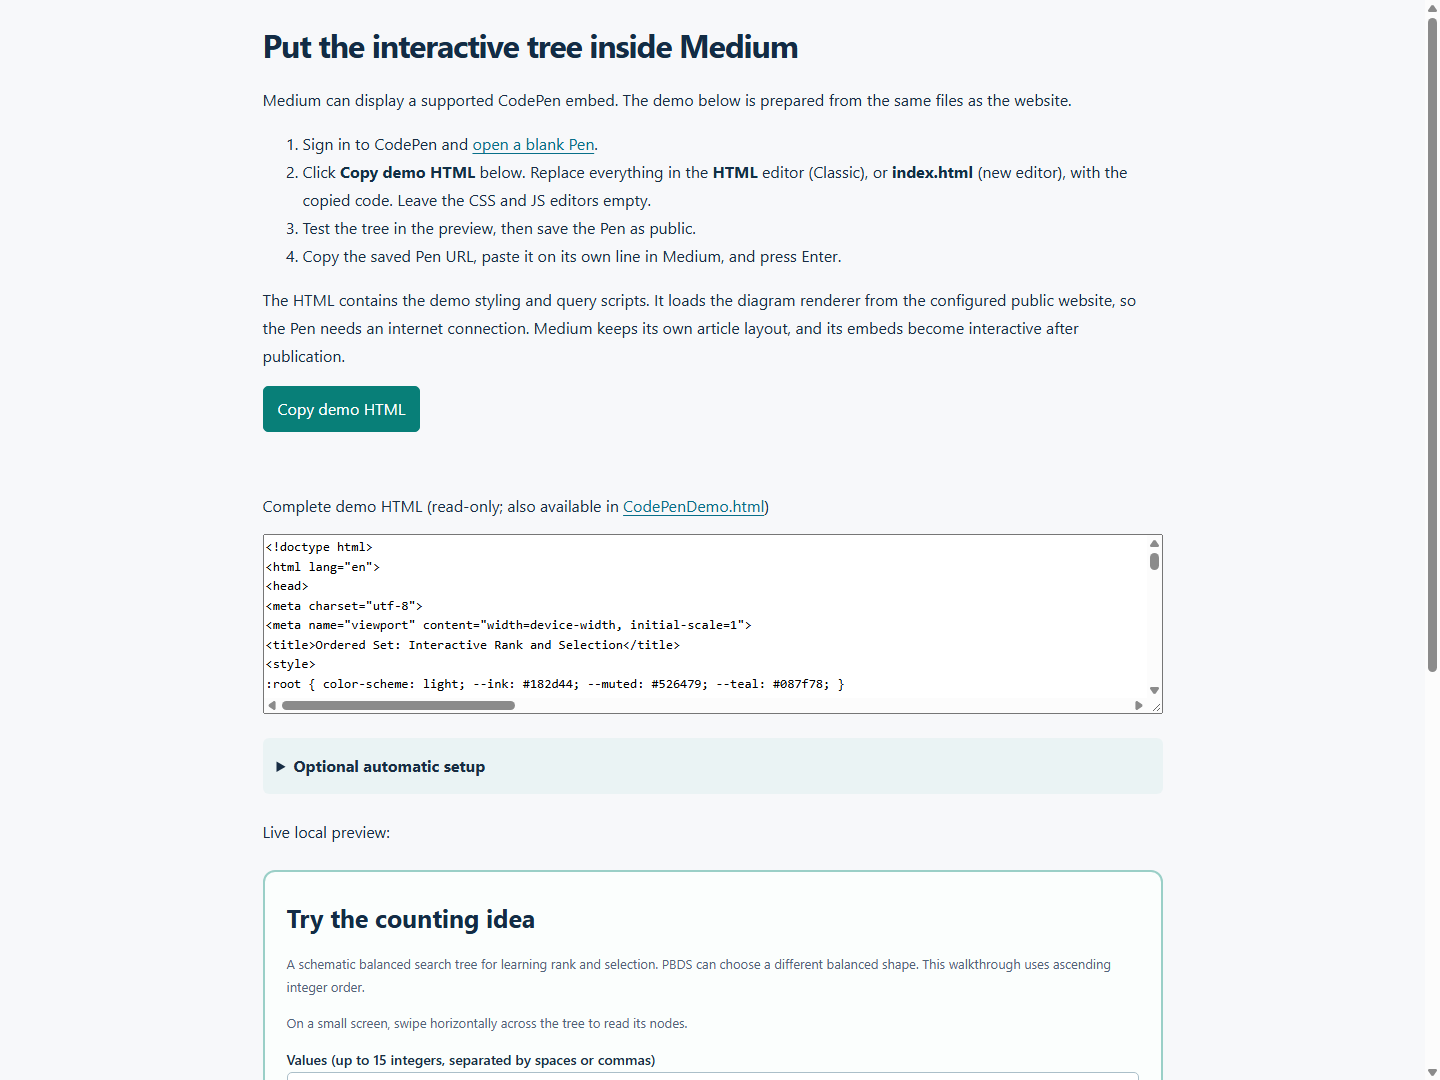
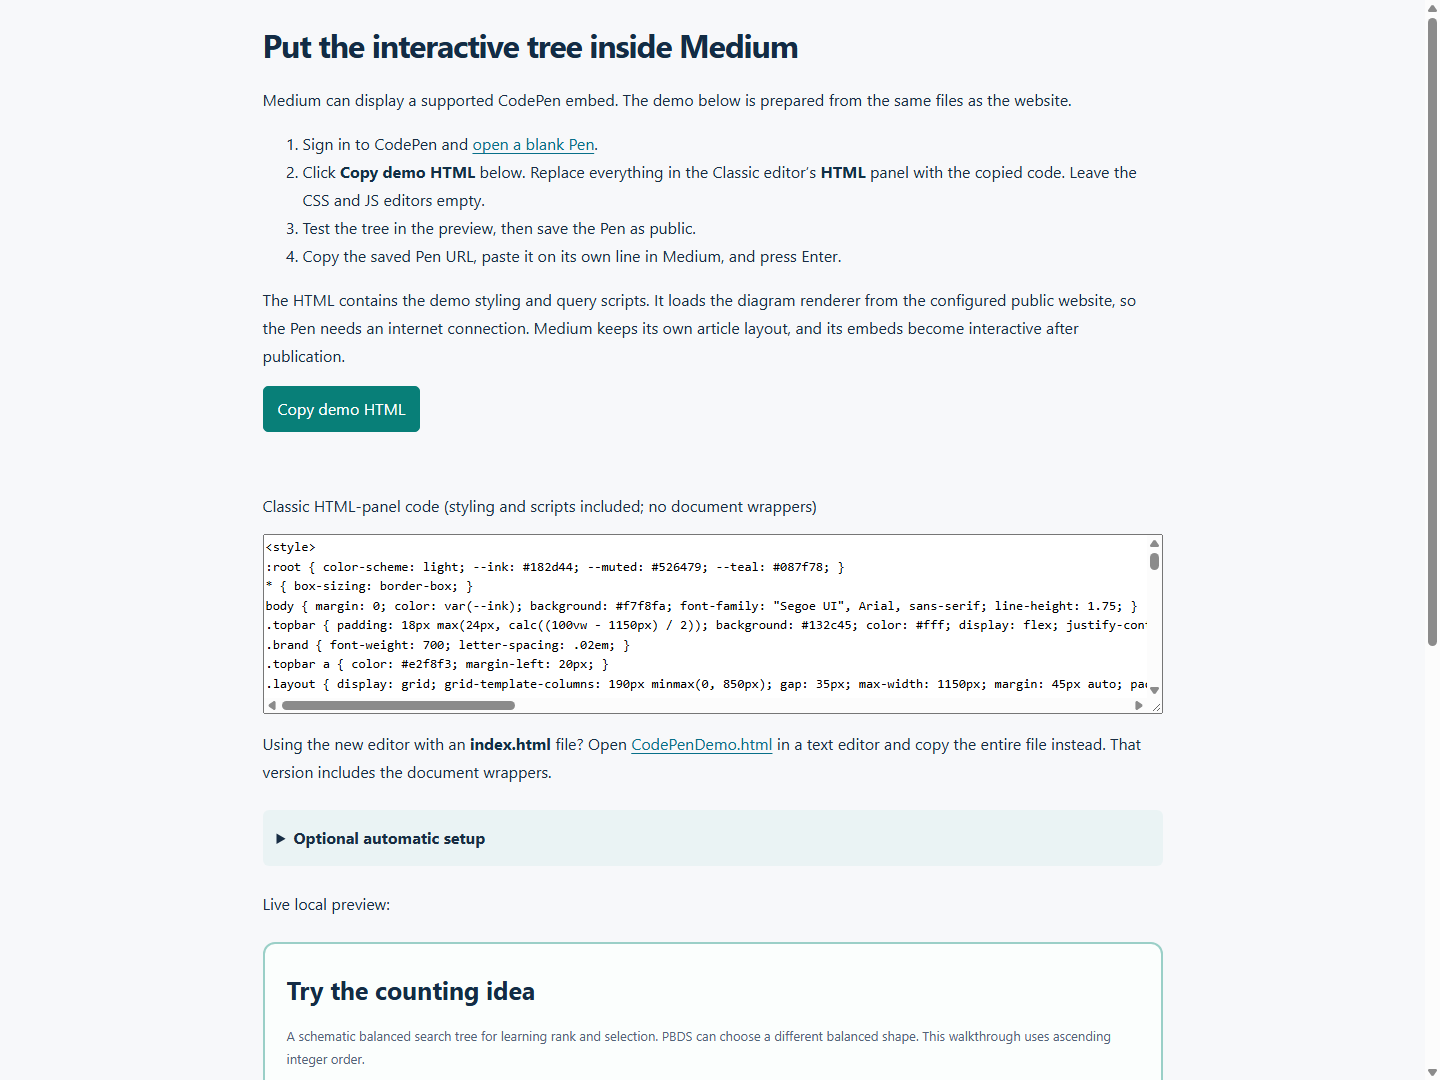
Enhanced some files specifically for Medium

diff --git a/embeds/CodePen.html b/embeds/CodePen.html
@@ -7,18 +7,12 @@
 </head><body><main><div class="embed-intro">
 <h1>Put the interactive tree inside Medium</h1>
 <p>Medium can display a supported CodePen embed. The demo below is prepared from the same files as the website.</p>
-<ol><li>Sign in to CodePen and <a href="https://codepen.io/pen/" target="_blank" rel="noopener">open a blank Pen</a>.</li><li>Click <strong>Copy demo HTML</strong> below. Replace everything in the <strong>HTML</strong> editor (Classic), or <strong>index.html</strong> (new editor), with the copied code. Leave the CSS and JS editors empty.</li><li>Test the tree in the preview, then save the Pen as public.</li><li>Copy the saved Pen URL, paste it on its own line in Medium, and press Enter.</li></ol>
+<ol><li>Sign in to CodePen and <a href="https://codepen.io/pen/" target="_blank" rel="noopener">open a blank Pen</a>.</li><li>Click <strong>Copy demo HTML</strong> below. Replace everything in the Classic editor’s <strong>HTML</strong> panel with the copied code. Leave the CSS and JS editors empty.</li><li>Test the tree in the preview, then save the Pen as public.</li><li>Copy the saved Pen URL, paste it on its own line in Medium, and press Enter.</li></ol>
 <p>The HTML contains the demo styling and query scripts. It loads the diagram renderer from the configured public website, so the Pen needs an internet connection. Medium keeps its own article layout, and its embeds become interactive after publication.</p>
 <button type="button" id="codepen-copy">Copy demo HTML</button>
 <p id="codepen-copy-status" role="status" aria-live="polite"></p>
-<label for="codepen-source">Complete demo HTML (read-only; also available in <a href="CodePenDemo.html">CodePenDemo.html</a>)</label>
-<textarea id="codepen-source" readonly spellcheck="false">&lt;!doctype html&gt;
-&lt;html lang="en"&gt;
-&lt;head&gt;
-&lt;meta charset="utf-8"&gt;
-&lt;meta name="viewport" content="width=device-width, initial-scale=1"&gt;
-&lt;title&gt;Ordered Set: Interactive Rank and Selection&lt;/title&gt;
-&lt;style&gt;
+<label for="codepen-source">Classic HTML-panel code (styling and scripts included; no document wrappers)</label>
+<textarea id="codepen-source" readonly spellcheck="false">&lt;style&gt;
 :root { color-scheme: light; --ink: #182d44; --muted: #526479; --teal: #087f78; }
 * { box-sizing: border-box; }
 body { margin: 0; color: var(--ink); background: #f7f8fa; font-family: "Segoe UI", Arial, sans-serif; line-height: 1.75; }
@@ -76,8 +70,6 @@ button:focus-visible, input:focus-visible, select:focus-visible, a:focus-visible
 body { padding: 16px; background: white; }
 .lab { max-width: 900px; margin: 0 auto; }
 &lt;/style&gt;
-&lt;/head&gt;
-&lt;body&gt;
 &lt;section id="ordered-set-lab" class="lab" aria-labelledby="lab-title"&gt;
 &lt;h2 id="lab-title"&gt;Try the counting idea&lt;/h2&gt;
 &lt;p class="lab-note"&gt;A schematic balanced search tree for learning rank and selection.
@@ -352,9 +344,8 @@ PBDS can choose a different balanced shape. This walkthrough uses ascending inte
 })();
 
 &lt;/script&gt;
-&lt;/body&gt;
-&lt;/html&gt;
 </textarea>
+<p>Using the new editor with an <strong>index.html</strong> file? Open <a href="CodePenDemo.html">CodePenDemo.html</a> in a text editor and copy the entire file instead. That version includes the document wrappers.</p>
 <details><summary>Optional automatic setup</summary>
 <p>The automatic form can fail with “Something Went Wrong” on CodePen. Use the copy instructions above if it fails. This opens a draft; it does not save or publish a Pen automatically.</p>
 <form data-codepen action="https://codepen.io/cpe/pen/define/" method="post" target="_blank" rel="noopener">
@@ -391,7 +382,7 @@ document.getElementById("codepen-copy").addEventListener("click", async () => {
     source.select();
     try {
         await navigator.clipboard.writeText(source.value);
-        status.textContent = "Copied. Paste into the HTML editor or index.html in CodePen.";
+        status.textContent = "Copied. Replace the Classic editor’s HTML-panel contents with this code.";
     }
     catch (error) {
         status.textContent = "The code is selected. Press Ctrl+C (Cmd+C on Mac), then paste into CodePen.";

diff --git a/embeds/CodePenDemo.html b/embeds/CodePenDemo.html
@@ -4,6 +4,8 @@
 <meta charset="utf-8">
 <meta name="viewport" content="width=device-width, initial-scale=1">
 <title>Ordered Set: Interactive Rank and Selection</title>
+</head>
+<body>
 <style>
 :root { color-scheme: light; --ink: #182d44; --muted: #526479; --teal: #087f78; }
 * { box-sizing: border-box; }
@@ -62,8 +64,6 @@ button:focus-visible, input:focus-visible, select:focus-visible, a:focus-visible
 body { padding: 16px; background: white; }
 .lab { max-width: 900px; margin: 0 auto; }
 </style>
-</head>
-<body>
 <section id="ordered-set-lab" class="lab" aria-labelledby="lab-title">
 <h2 id="lab-title">Try the counting idea</h2>
 <p class="lab-note">A schematic balanced search tree for learning rank and selection.

diff --git a/build.py b/build.py
@@ -222,20 +222,25 @@ def codepen_payload(config):
             'head': '<meta name="viewport" content="width=device-width, initial-scale=1">'}
 
 
-def render_codepen_demo(config):
-    payload = codepen_payload(config)
+def codepen_body(payload):
     renderer = payload['js_external'] or '../assets/vendor/mermaid.min.js'
     javascript = re.sub(r'</script', r'<\\/script', payload['js'], flags=re.I)
+    return ('<style>\n' + payload['css'] + '</style>\n' + payload['html']
+            + '\n<script src="' + html.escape(renderer, quote=True) + '"></script>\n'
+            + '<script>\n' + javascript + '\n</script>\n')
+
+
+def render_codepen_demo(config):
+    payload = codepen_payload(config)
     return ('<!doctype html>\n<html lang="en">\n<head>\n<meta charset="utf-8">\n'
             + payload['head'] + '\n<title>' + html.escape(payload['title']) + '</title>\n'
-            + '<style>\n' + payload['css'] + '</style>\n</head>\n<body>\n'
-            + LAB + '\n<script src="' + html.escape(renderer, quote=True) + '"></script>\n'
-            + '<script>\n' + javascript + '\n</script>\n</body>\n</html>\n')
+            + '</head>\n<body>\n' + codepen_body(payload) + '</body>\n</html>\n')
 
 
 def render_codepen_launcher(config):
-    payload = html.escape(json.dumps(codepen_payload(config), ensure_ascii=False), quote=True)
-    manual_source = html.escape(render_codepen_demo(config), quote=False)
+    export = codepen_payload(config)
+    payload = html.escape(json.dumps(export, ensure_ascii=False), quote=True)
+    manual_source = html.escape(codepen_body(export), quote=False)
     disabled = '' if config.get('interactive_url') else ' disabled'
     notice = '' if not disabled else '<p>Set the confirmed hosted website URL in publishing.json and rebuild before exporting.</p>'
     return ('<!doctype html>\n<html lang="en"><head><meta charset="utf-8">\n'
@@ -252,7 +257,7 @@ def render_codepen_launcher(config):
             '<p>Medium can display a supported CodePen embed. The demo below is prepared from the same files as the website.</p>\n'
             '<ol><li>Sign in to CodePen and <a href="https://codepen.io/pen/" target="_blank" rel="noopener">open a blank Pen</a>.</li>'
             '<li>Click <strong>Copy demo HTML</strong> below. Replace everything in the '
-            '<strong>HTML</strong> editor (Classic), or <strong>index.html</strong> (new editor), '
+            'Classic editor’s <strong>HTML</strong> panel '
             'with the copied code. Leave the CSS and JS editors empty.</li>'
             '<li>Test the tree in the preview, then save the Pen as public.</li>'
             '<li>Copy the saved Pen URL, paste it on its own line in Medium, and press Enter.</li></ol>\n'
@@ -261,9 +266,12 @@ def render_codepen_launcher(config):
             'Medium keeps its own article layout, and its embeds become interactive after publication.</p>\n'
             f'<button type="button" id="codepen-copy"{disabled}>Copy demo HTML</button>\n'
             '<p id="codepen-copy-status" role="status" aria-live="polite"></p>\n'
-            '<label for="codepen-source">Complete demo HTML (read-only; also available in '
-            '<a href="CodePenDemo.html">CodePenDemo.html</a>)</label>\n'
+            '<label for="codepen-source">Classic HTML-panel code (styling and scripts included; '
+            'no document wrappers)</label>\n'
             f'<textarea id="codepen-source" readonly spellcheck="false">{manual_source}</textarea>\n'
+            '<p>Using the new editor with an <strong>index.html</strong> file? Open '
+            '<a href="CodePenDemo.html">CodePenDemo.html</a> in a text editor and copy the '
+            'entire file instead. That version includes the document wrappers.</p>\n'
             '<details><summary>Optional automatic setup</summary>\n'
             '<p>The automatic form can fail with “Something Went Wrong” on CodePen. '
             'Use the copy instructions above if it fails. This opens a draft; it does not save or publish a Pen automatically.</p>\n'
@@ -279,7 +287,7 @@ def render_codepen_launcher(config):
             '    source.select();\n'
             '    try {\n'
             '        await navigator.clipboard.writeText(source.value);\n'
-            '        status.textContent = "Copied. Paste into the HTML editor or index.html in CodePen.";\n'
+            '        status.textContent = "Copied. Replace the Classic editor’s HTML-panel contents with this code.";\n'
             '    }\n'
             '    catch (error) {\n'
             '        status.textContent = "The code is selected. Press Ctrl+C (Cmd+C on Mac), then paste into CodePen.";\n'

diff --git a/tests/DocumentationTests.py b/tests/DocumentationTests.py
@@ -79,7 +79,7 @@ class DocumentationTests(unittest.TestCase):
         self.assertLess(source.index(model), source.index(ui))
         self.assertIn('../assets/vendor/mermaid.min.js', build.render_codepen_demo({}))
 
-    def test_manual_copy_box_round_trips_the_complete_html(self):
+    def test_manual_copy_box_round_trips_the_classic_html(self):
         class CopyBox(HTMLParser):
             def __init__(self):
                 super().__init__()
@@ -99,9 +99,30 @@ class DocumentationTests(unittest.TestCase):
         config = {'interactive_url':'https://example.github.io/ordered-set/'}
         page = CopyBox()
         page.feed(build.render_codepen_launcher(config))
-        self.assertEqual(''.join(page.source), build.render_codepen_demo(config))
+        self.assertEqual(''.join(page.source), build.codepen_body(build.codepen_payload(config)))
         self.assertEqual(page.attrs['id'], 'codepen-source')
         self.assertIn('readonly', page.attrs)
+
+    def test_classic_copy_has_no_document_wrappers(self):
+        class Tags(HTMLParser):
+            def __init__(self):
+                super().__init__()
+                self.tags = []
+                self.declarations = []
+            def handle_starttag(self, tag, attrs):
+                self.tags.append(tag)
+            def handle_decl(self, declaration):
+                self.declarations.append(declaration)
+        config = {'interactive_url':'https://example.github.io/ordered-set/'}
+        source = build.codepen_body(build.codepen_payload(config))
+        parsed = Tags()
+        parsed.feed(source)
+        self.assertEqual(parsed.declarations, [])
+        self.assertFalse({'html', 'head', 'body', 'meta', 'title'} & set(parsed.tags))
+        self.assertIn('style', parsed.tags)
+        self.assertIn('section', parsed.tags)
+        self.assertEqual(parsed.tags.count('script'), 2)
+        self.assertIn(source, build.render_codepen_demo(config))
 
     def test_comment_alignment_keeps_cpp_tokens_and_literal_slashes(self):
         source = ('cout << "https://example.com"; // URL\n'

diff --git a/tools/browser_check.py b/tools/browser_check.py
@@ -59,7 +59,7 @@ window.addEventListener('load', async () => {
         }
         const source = document.getElementById('codepen-source');
         if (source) {
-            Check(source.readOnly && source.value.startsWith('<!doctype html>') && source.value.includes('OrderedSetDemo'), 'Manual setup contains the complete demo HTML');
+            Check(source.readOnly && source.value.startsWith('<style>') && !/<\/?(?:html|head|body)\b/i.test(source.value) && source.value.includes('OrderedSetDemo'), 'Classic copy contains styling and scripts without document wrappers');
             const previousClipboard = Object.getOwnPropertyDescriptor(navigator, 'clipboard');
             try {
                 let copied;

diff --git a/docs/Publishing.md b/docs/Publishing.md
@@ -61,14 +61,14 @@ Pasting HTML source into Medium will not install the website or execute the tuto
 The article importer does not transfer working JavaScript. It produces a Medium story with readable content. This is different from a supported third-party embed: Medium explicitly lists [CodePen among its embed providers](https://help.medium.com/hc/en-us/articles/214981378-Using-embeds), and [CodePen documents URL-based embedding in Medium](https://blog.codepen.io/docs/embeds/). That route can put the working tree inside a story while Medium keeps its own surrounding article layout.
 
 1. Open the local [embeds/CodePen.html](../embeds/CodePen.html) in a browser. The local tree preview uses the existing tested demo files. This does not require another push.
-2. Sign in to CodePen, then [open a blank Pen](https://codepen.io/pen/). Click **Copy demo HTML** on the local setup page. Replace everything in the Pen's **HTML** editor (Classic) or **index.html** (new editor) with that code. Leave the CSS and JS editors empty. If clipboard access is denied, the setup page selects all the code; press **Ctrl+C** (**Cmd+C** on Mac) yourself. You can also open [CodePenDemo.html](../embeds/CodePenDemo.html) in a text editor and copy the entire file. CodePen's [editor migration guide](https://blog.codepen.io/docs/what-changed/) explains the Classic editor and the new full-HTML `index.html`.
+2. Sign in to CodePen, then [open a blank Classic Pen](https://codepen.io/pen/). Click **Copy demo HTML** on the local setup page. Replace everything in the **HTML** panel with that code. It includes styling and scripts but omits document wrappers, because the [Classic HTML panel expects body content](https://blog.codepen.io/documentation/editor-view/). Leave the CSS and JS panels empty. If clipboard access is denied, the setup page selects all the code; press **Ctrl+C** (**Cmd+C** on Mac) yourself. In the new editor, open [CodePenDemo.html](../embeds/CodePenDemo.html) in a text editor and copy the entire file into **index.html** instead. The full file includes the document wrappers required there; CodePen's [editor migration guide](https://blog.codepen.io/docs/what-changed/) explains that difference.
 3. Confirm the tree controls work in the preview, then save the demo as a public Pen under your account. Check the saved Pen too.
 4. Copy its public Pen URL. In the Medium story, paste that URL on an otherwise empty line and press **Enter**. Paste the URL, not CodePen's HTML/iframe embed code.
 5. Check that Medium expands the URL into a Pen embed. Medium says its embeds become interactive after publication; the draft may show a preview. Verify the actual published result too. The local browser checks do not establish that Medium has accepted an embed.
 
 This adds the tree's interactive controls; it does not reproduce the full website as Medium's native page layout. If Medium shows only a link card, keep the existing direct website link and investigate the saved Pen's embed rather than claiming the story is interactive.
 
-The complete demo HTML copies its styling, model, and UI from the canonical local files; its only external asset is the renderer at the configured public website URL. A saved Pen needs internet access to load that renderer. The setup page's own preview remains local and works offline. Local preview controls, copy success/failure, form serialization, and the complete exported HTML are tested separately from the external CodePen/Medium publishing step. The C++ library is independent of this publication workflow.
+The Classic copy and complete demo HTML use identical styling, model, and UI from the canonical local files; their only external asset is the renderer at the configured public website URL. A saved Pen needs internet access to load that renderer. The setup page's own preview remains local and works offline. Local preview controls, copy success/failure, absence of document wrappers in the Classic copy, form serialization, and the exported HTML are tested separately from the external CodePen/Medium publishing step. The C++ library is independent of this publication workflow.
 
 The **Optional automatic setup** section retains CodePen's [documented prefill form](https://blog.codepen.io/docs/api/post-to-prefill-pen/). That endpoint returned **Something Went Wrong** during the publisher's attempt; its error page did not identify a cause. The manual setup above bypasses the endpoint, and the page does not save or publish anything automatically. Do not keep retrying the failed form or mistake its failure for a failure of the demo itself.
 

diff --git a/docs/Validation.md b/docs/Validation.md
@@ -12,7 +12,7 @@ The original compiler matrix remains in `validation/Results.json`. After the pub
 
 The polish also passed five publishing-link tests and eight documentation/tool regressions, including comment alignment in rendered code blocks, freshness checks without file writes, and launching verification from the parent directory. [PublicationPolish.json](../validation/PublicationPolish.json) records those checks and editor diagnostics. VS Code's built-in HTML/CSS service originally reported 30 errors and 25 warnings from empty Mermaid style attributes in `index.html`; all five generated HTML pages now report zero errors and zero warnings. This fixes the generated markup instead of disabling validation.
 
-The CodePen setup now passes eleven documentation/tool regressions, including exact form-payload serialization and a round-trip check of the complete HTML copy box. Its tree controls, prefill data, clipboard success, clipboard denial, and missing Clipboard API passed 34 browser checks at each of the desktop/mobile viewports; see [CodePenBrowser.json](../validation/CodePenBrowser.json). The complete pasteable demo passed 27 checks per viewport while loading its actual configured HTTPS renderer; see [CodePenManualBrowser.json](../validation/CodePenManualBrowser.json). The earlier reconstructed HTML/CSS/JavaScript payload also passed 27 checks per viewport using the same pinned renderer; see [CodePenPayloadBrowser.json](../validation/CodePenPayloadBrowser.json).
+The CodePen setup now passes twelve documentation/tool regressions, including exact form-payload serialization, a round-trip check of the Classic HTML copy box, and rejection of document wrappers in that copy. Its tree controls, prefill data, clipboard success, clipboard denial, and missing Clipboard API passed 34 browser checks at each of the desktop/mobile viewports; see [CodePenBrowser.json](../validation/CodePenBrowser.json). The Classic markup, placed in a normal document's body as the editor does, passed 27 checks per viewport while loading its actual configured HTTPS renderer; see [CodePenManualBrowser.json](../validation/CodePenManualBrowser.json). The earlier reconstructed HTML/CSS/JavaScript payload also passed 27 checks per viewport using the same pinned renderer; see [CodePenPayloadBrowser.json](../validation/CodePenPayloadBrowser.json).
 
 The publisher encountered **Something Went Wrong** at CodePen's automatic prefill endpoint. That error did not identify a cause. Manual copying into a blank Pen bypasses that endpoint. Browser checks exercise the generated files, not CodePen's account/editor service; they do not publish a Pen or prove that Medium has accepted its embed. Saving a Pen and verifying it inside the actual story remain external publishing steps.
 

diff --git a/docs/ProjectGuide.md b/docs/ProjectGuide.md
@@ -11,8 +11,8 @@ To use the C++ container, take `OrderedSet.hpp`. To explore the tree, open `inde
 | `Medium.md` | The long article in Markdown, retaining editable Mermaid diagram blocks. |
 | `Medium.publish.md` | The story-preparation copy with PNG diagrams instead of Mermaid source. |
 | `Medium.publish.html` | The complete static article with PNG diagrams. Copy its rendered content, or host it and give its public URL to Medium's importer. It is not a local file attachment to upload in Write. |
-| `embeds/CodePen.html` | A working tree preview and a copy button for setting up a blank Pen. The automatic form is optional because it can fail on CodePen. |
-| `embeds/CodePenDemo.html` | Complete demo HTML for a Pen's HTML editor or `index.html`. Styling and query scripts are included; the diagram renderer loads from the configured public website. Save the Pen, then paste its URL into Medium. |
+| `embeds/CodePen.html` | A working tree preview and a copy button for a Classic Pen's HTML panel. The copied markup omits document wrappers. The automatic form is optional because it can fail on CodePen. |
+| `embeds/CodePenDemo.html` | Complete demo HTML for the new editor's `index.html` or a normal browser. Styling and query scripts are included; the diagram renderer loads from the configured public website. The Classic HTML panel uses the copy button above instead. |
 | `Codeforces.md` | The shorter contest article in Codeforces Markdown, including math and a full-code spoiler. Paste this version into the Codeforces editor. |
 | `Codeforces.html` | A local preview for reading. Codeforces itself renders the final math and spoiler. |
 
